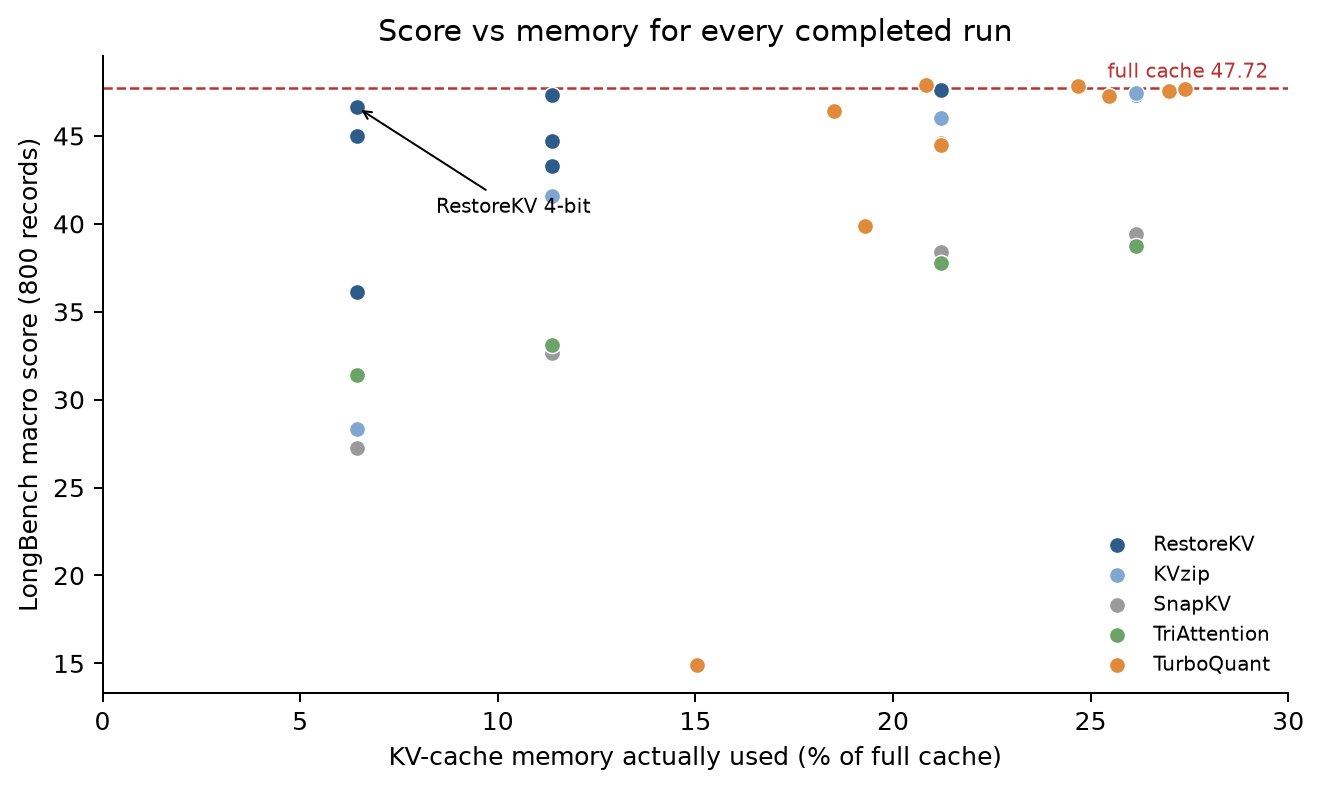
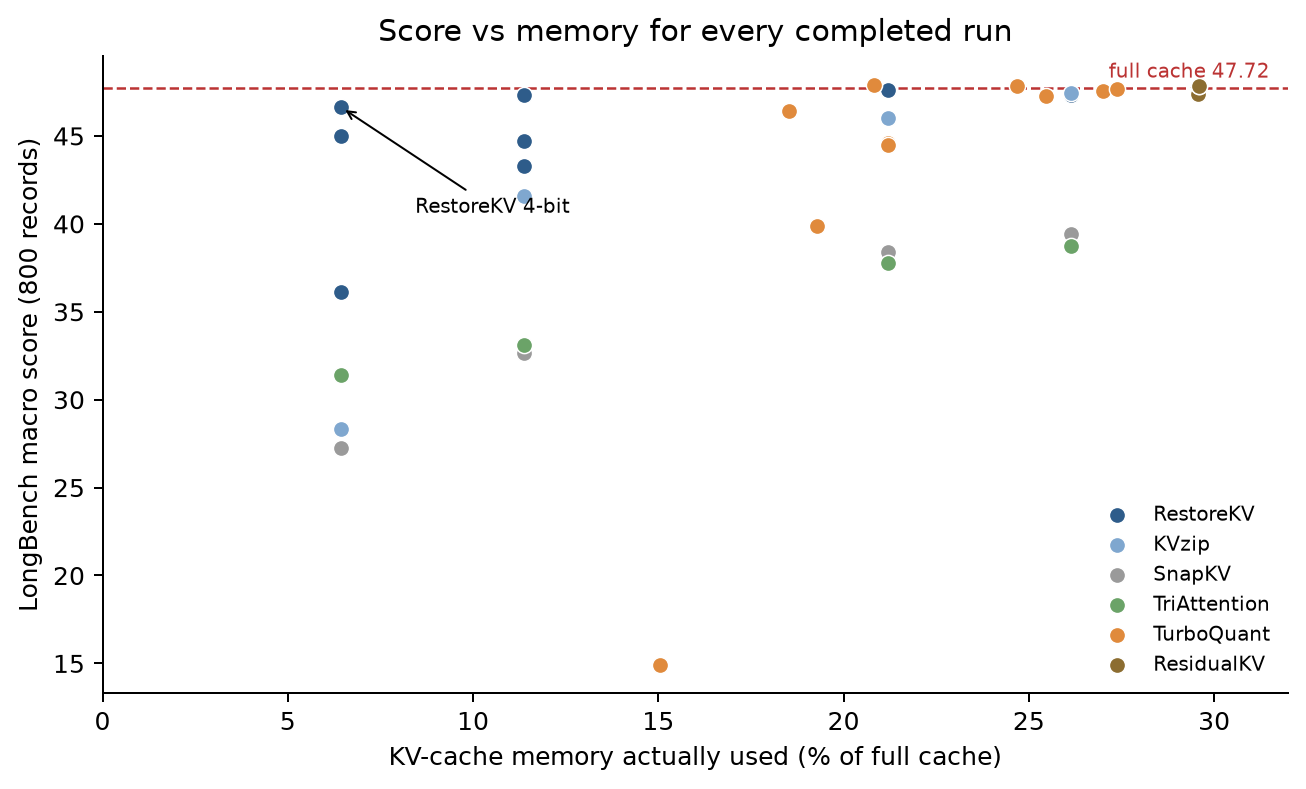
Add ResidualKV to the method comparison

diff --git a/results/comparison/compare_methods.py b/results/comparison/compare_methods.py
@@ -118,7 +118,7 @@ def main():
                "runs": runs, "skipped": skipped}, open(OUT / "comparison.json", "w"), indent=1)
 
     bands = [(0, 9, "About 6% of the full cache"), (9, 14, "About 11%"), (14, 17, "About 15%"),
-             (17, 23, "About 18-22%"), (23, 30, "About 24-28%")]
+             (17, 23, "About 18-22%"), (23, 32, "About 24-30%")]
     md = ["# Method comparison on the LongBench validation set", "",
           "Generated by `results/comparison/compare_methods.py` from every completed 800-record run. "
           f"Full cache (no compression): **{macro(base):.2f}**, mean KV cache {base_kv:.3f} GB.", "",
@@ -142,7 +142,7 @@ def main():
                   + " | ".join(f"{r['categories'][c]:.1f}" for c in CATEGORIES) + " |")
     md += ["", "## Not included yet", "",
            "Runs are added automatically when their 800-record files are committed. Missing at the time of writing: "
-           "ResidualKV (all budgets) and RDKV (result files not yet committed).", ""]
+           "RDKV (result files not yet committed). ResidualKV compresses the question with the document and keeps about 30% of the cache at every ratio; see members/charvee/README.md.", ""]
     if skipped:
         md += ["Files skipped because their record IDs do not match the 800-record baseline: "
                + ", ".join(f"{n} ({k} rows)" for n, k in skipped), ""]
@@ -165,14 +165,14 @@ def main():
             ax.scatter([r["memory_pct"] for r in pts], [r["score"] for r in pts], s=42, color=colors[fam], label=fam,
                        zorder=3, edgecolor="white", linewidth=0.6)
     ax.axhline(macro(base), color="#B33", ls="--", lw=1)
-    ax.text(29.5, macro(base) + 0.6, f"full cache {macro(base):.2f}", ha="right", color="#B33", fontsize=8)
+    ax.text(31.5, macro(base) + 0.6, f"full cache {macro(base):.2f}", ha="right", color="#B33", fontsize=8)
     best = max((r for r in runs if r["memory_pct"] < 9), key=lambda r: r["score"], default=None)
     if best:
         ax.annotate(f"{best['family']} {best['setting'].split(',')[0]}", (best["memory_pct"], best["score"]),
                     (best["memory_pct"] + 2, best["score"] - 6), fontsize=8, arrowprops=dict(arrowstyle="->", lw=0.8))
     ax.set_xlabel("KV-cache memory actually used (% of full cache)")
     ax.set_ylabel("LongBench macro score (800 records)")
-    ax.set_xlim(0, 30)
+    ax.set_xlim(0, 32)
     ax.set_title("Score vs memory for every completed run")
     ax.spines[["top", "right"]].set_visible(False)
     ax.legend(frameon=False, fontsize=8, loc="lower right")

diff --git a/results/comparison/COMPARISON.md b/results/comparison/COMPARISON.md
@@ -46,14 +46,18 @@ Memory = mean computed KV-cache size as a share of the full cache (document + un
 | SnapKV | ratio 0.8 | 21.2% | 38.42 | -9.29 [-11.29, -7.22] | 0 |
 | TriAttention | ratio 0.8 | 21.2% | 37.79 | -9.92 [-11.96, -7.93] | 0 |
 
-## About 24-28%
+## About 24-30%
 
 | Method | Setting | Memory | Score | Δ vs full [95% CI] | OOM |
 |---|---|---|---|---|---|
+| ResidualKV | ratio 0.8 | 29.6% | 47.85 | +0.13 [-0.81, +1.14] | 0 |
 | TurboQuant | MSE 3.5-bit | 24.7% | 47.84 | +0.13 [-0.71, +0.97] | 0 |
+| ResidualKV | ratio 0.75 | 29.6% | 47.83 | +0.12 [-0.80, +1.09] | 0 |
 | TurboQuant | QJL 4-bit | 27.4% | 47.67 | -0.05 [-1.25, +1.19] | 0 |
+| ResidualKV | ratio 0.9 | 29.6% | 47.59 | -0.13 [-1.06, +0.84] | 0 |
 | TurboQuant | MSE 4-bit | 27.0% | 47.57 | -0.15 [-1.01, +0.70] | 0 |
 | KVzip | ratio 0.75 | 26.1% | 47.43 | -0.28 [-1.83, +1.20] | 0 |
+| ResidualKV | ratio 0.95 | 29.6% | 47.38 | -0.33 [-1.31, +0.66] | 0 |
 | RestoreKV | ratio 0.75 | 26.1% | 47.31 | -0.41 [-1.81, +0.98] | 0 |
 | TurboQuant | QJL 3.5-bit | 25.5% | 47.25 | -0.47 [-1.75, +0.72] | 0 |
 | SnapKV | ratio 0.75 | 26.1% | 39.40 | -8.31 [-10.27, -6.24] | 0 |
@@ -94,7 +98,11 @@ Memory = mean computed KV-cache size as a share of the full cache (document + un
 | TriAttention | ratio 0.75 | 26.1% | 27.3 | 27.8 | 25.6 | 61.8 | 45.2 | 51.1 |
 | TurboQuant | MSE 4-bit | 27.0% | 45.1 | 41.6 | 28.9 | 69.8 | 51.2 | 51.1 |
 | TurboQuant | QJL 4-bit | 27.4% | 42.3 | 45.8 | 28.4 | 70.5 | 49.2 | 51.5 |
+| ResidualKV | ratio 0.9 | 29.6% | 44.6 | 42.1 | 26.8 | 70.1 | 52.0 | 53.4 |
+| ResidualKV | ratio 0.95 | 29.6% | 44.6 | 42.1 | 27.0 | 70.3 | 51.0 | 52.2 |
+| ResidualKV | ratio 0.8 | 29.6% | 44.8 | 42.3 | 27.6 | 70.1 | 52.0 | 53.6 |
+| ResidualKV | ratio 0.75 | 29.6% | 45.0 | 42.0 | 27.3 | 69.9 | 52.0 | 54.4 |
 
 ## Not included yet
 
-Runs are added automatically when their 800-record files are committed. Missing at the time of writing: ResidualKV (all budgets) and RDKV (result files not yet committed).
+Runs are added automatically when their 800-record files are committed. Missing at the time of writing: RDKV (result files not yet committed). ResidualKV compresses the question with the document and keeps about 30% of the cache at every ratio; see members/charvee/README.md.
